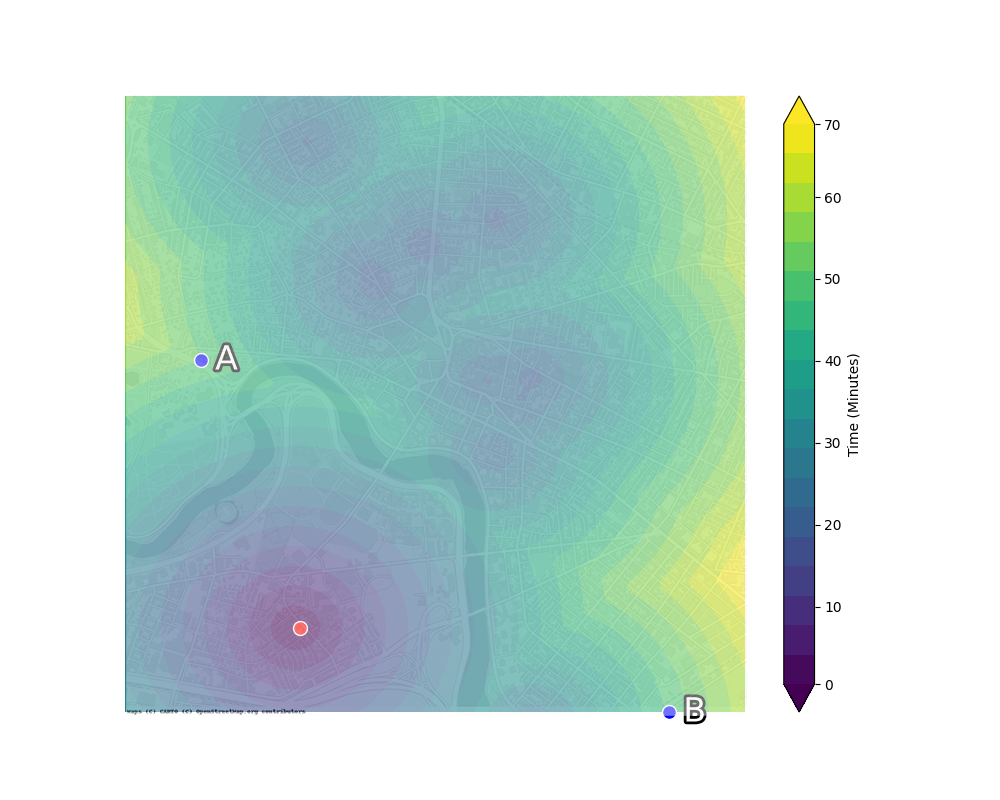
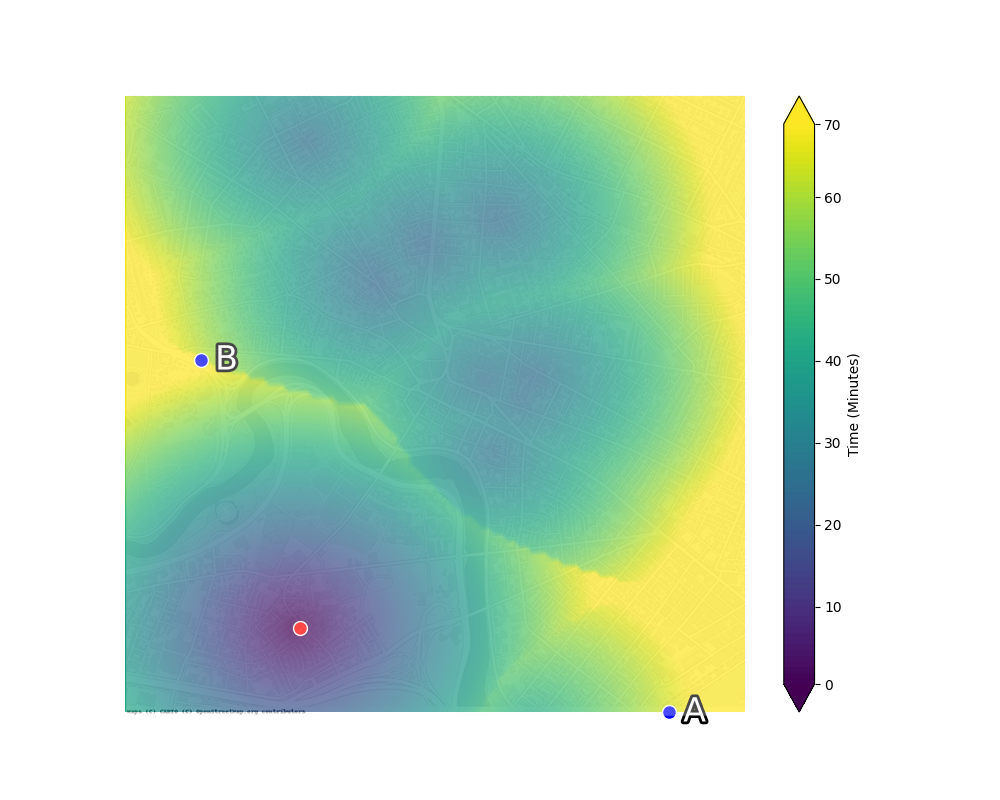
adjust isochrones

diff --git a/isochrome-renderer/isochrome_time_slider.py b/isochrome-renderer/isochrome_time_slider.py
@@ -4,6 +4,7 @@ import matplotlib.pyplot as plt
 import matplotlib.colors as mcolors
 from matplotlib.widgets import Slider
 import matplotlib.patheffects as path_effects
+from scipy.stats import norm
 
 # load data
 with open('means.json', 'r') as f:
@@ -15,7 +16,10 @@ with open('variances.json', 'r') as f:
 variances_matrix = np.array(variances_data)
 
 std_matrix = np.sqrt(variances_matrix)
-z_scores = {'1%': -2.33, '25%': -0.674, '50%': 0, '75%': 0.674, '99%': 2.33}
+# z_scores = {'1%': -2.33, '25%': -0.674, '50%': 0, '75%': 0.674, '99%': 2.33}
+z_scores = {}
+for i in range(1, 100):
+    z_scores[f"{i}%"] = norm.ppf(i / 100.0)
 intervals = {percentile: means_matrix + z * std_matrix for percentile, z in z_scores.items()}
 
 btm_left = [42.36020227811244, -71.13409264574024]
@@ -38,19 +42,20 @@ key_mapping = {"A<B": "A-lt-B", "A=B": "A-eq-B", "A>B": "A-gt-B"}
 # onchange for slider
 def update(val=None, points=None, title=None):
     global cbar 
-    chosen_time = 30
+    chosen_time = 45
     confidence_levels = np.zeros(means_matrix.shape)
     for percentile, interval_matrix in intervals.items():
         new_confidence_level = float(percentile[:-1])
         mask = (interval_matrix <= chosen_time) & (new_confidence_level > confidence_levels)
         confidence_levels[mask] = new_confidence_level
     ax.clear()
-    cf = ax.contourf(X, Y, confidence_levels, levels=[1, 25, 50, 75, 99], cmap=cmap, norm=norm, extend='both')
+    cf = ax.contourf(X, Y, confidence_levels, levels=np.arange(0, 101, 1), cmap=cmap, norm=norm, extend='both')
     
     # Handle colorbar creation or update
     if cbar is not None:
         cbar.remove()
     cbar = fig.colorbar(cf, ax=ax, label='Confidence Level (%)')
+    cbar.set_ticks(np.arange(0, 101, 10))
     
     # plot points
     if points is not None:
@@ -58,9 +63,9 @@ def update(val=None, points=None, title=None):
         point1 = points[0]
         point2 = points[1]
         p1_scatter = ax.scatter(point1[1], point1[0], color='blue', s=100, edgecolors='white')
-        p1_text = ax.text(point1[1] + 0.0012, point1[0], 'A', fontsize=24, color='white', ha='center', va='center', path_effects=path_effect)
+        p1_text = ax.text(point1[1] + 0.0012, point1[0], 'B', fontsize=24, color='white', ha='center', va='center', path_effects=path_effect)
         p2_scatter = ax.scatter(point2[1], point2[0], color='blue', s=100, edgecolors='white')
-        p2_text = ax.text(point2[1] + 0.0012, point2[0], 'B', fontsize=24, color='white', ha='center', va='center', path_effects=path_effect)
+        p2_text = ax.text(point2[1] + 0.0012, point2[0], 'A', fontsize=24, color='white', ha='center', va='center', path_effects=path_effect)
         for artist in [p1_scatter, p1_text, p2_scatter, p2_text]:
             artist.set_clip_on(False)
     

diff --git a/isochrome-renderer/isochrome_confidence_slider.py b/isochrome-renderer/isochrome_confidence_slider.py
@@ -37,12 +37,12 @@ key_mapping = {"A<B": "A-lt-B", "A=B": "A-eq-B", "A>B": "A-gt-B"}
 # update based on selected confidence level
 def update(val=None, points=None, title=None):
     global cbar
-    percentile = 50
+    percentile = 90
     z = norm.ppf(percentile / 100.0)
     interval_matrix = means_matrix + z * std_matrix  # Calculate time range for the selected confidence level
     
     ax.clear()
-    cf = ax.contourf(X, Y, interval_matrix, levels=np.linspace(means_matrix.min(), means_matrix.max(), num=20), cmap=cmap, norm=cnorm, extend='both')
+    cf = ax.contourf(X, Y, interval_matrix, levels=np.linspace(means_matrix.min(), means_matrix.max(), num=100), cmap=cmap, norm=cnorm, extend='both')
     
     if cbar is not None:
         cbar.remove()
@@ -54,9 +54,9 @@ def update(val=None, points=None, title=None):
         point1 = points[0]
         point2 = points[1]
         p1_scatter = ax.scatter(point1[1], point1[0], color='blue', s=100, edgecolors='white')
-        p1_text = ax.text(point1[1] + 0.0012, point1[0], 'A', fontsize=24, color='white', ha='center', va='center', path_effects=path_effect)
+        p1_text = ax.text(point1[1] + 0.0012, point1[0], 'B', fontsize=24, color='white', ha='center', va='center', path_effects=path_effect)
         p2_scatter = ax.scatter(point2[1], point2[0], color='blue', s=100, edgecolors='white')
-        p2_text = ax.text(point2[1] + 0.0012, point2[0], 'B', fontsize=24, color='white', ha='center', va='center', path_effects=path_effect)
+        p2_text = ax.text(point2[1] + 0.0012, point2[0], 'A', fontsize=24, color='white', ha='center', va='center', path_effects=path_effect)
         for artist in [p1_scatter, p1_text, p2_scatter, p2_text]:
             artist.set_clip_on(False)
         

diff --git a/isochrome-renderer/overlayer.py b/isochrome-renderer/overlayer.py
@@ -38,10 +38,10 @@ def overlay_images(background_path, overlay_path, output_path, position=(0, 0), 
 import os
 png_files = ['./time/' + file for file in os.listdir("./time") if file.endswith(".png") and file != "overlay.png"]
 for file in png_files:
-    overlay_images(file, "overlay.png", file, transparency=0.45)
+    overlay_images(file, "overlay.png", file, transparency=0.3)
 
 png_files = ['./confidence/' + file for file in os.listdir("./confidence") if file.endswith(".png") and file != "overlay.png"]
 for file in png_files:
-    overlay_images(file, "overlay.png", file, transparency=0.45)  
+    overlay_images(file, "overlay.png", file, transparency=0.3)  
 
 
